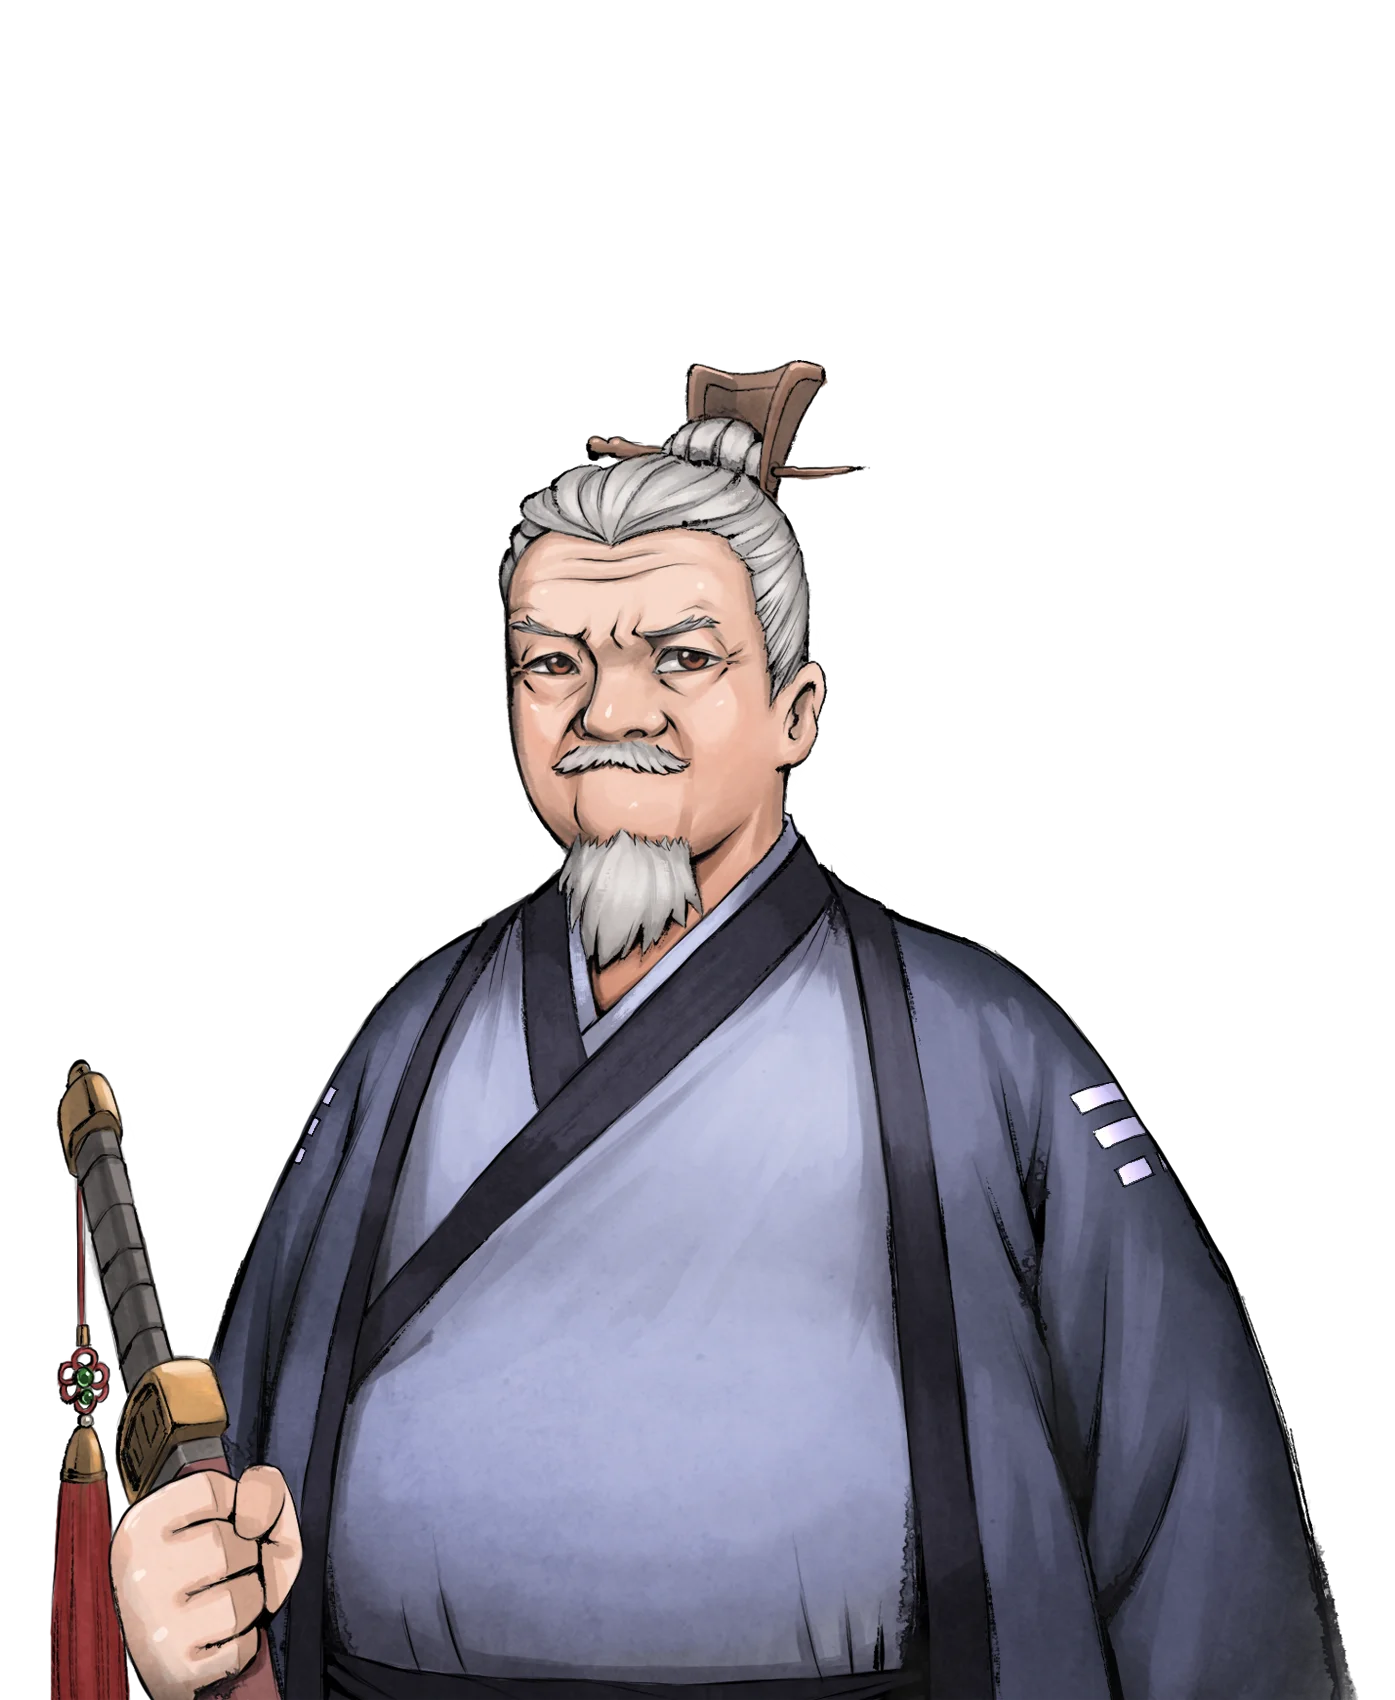
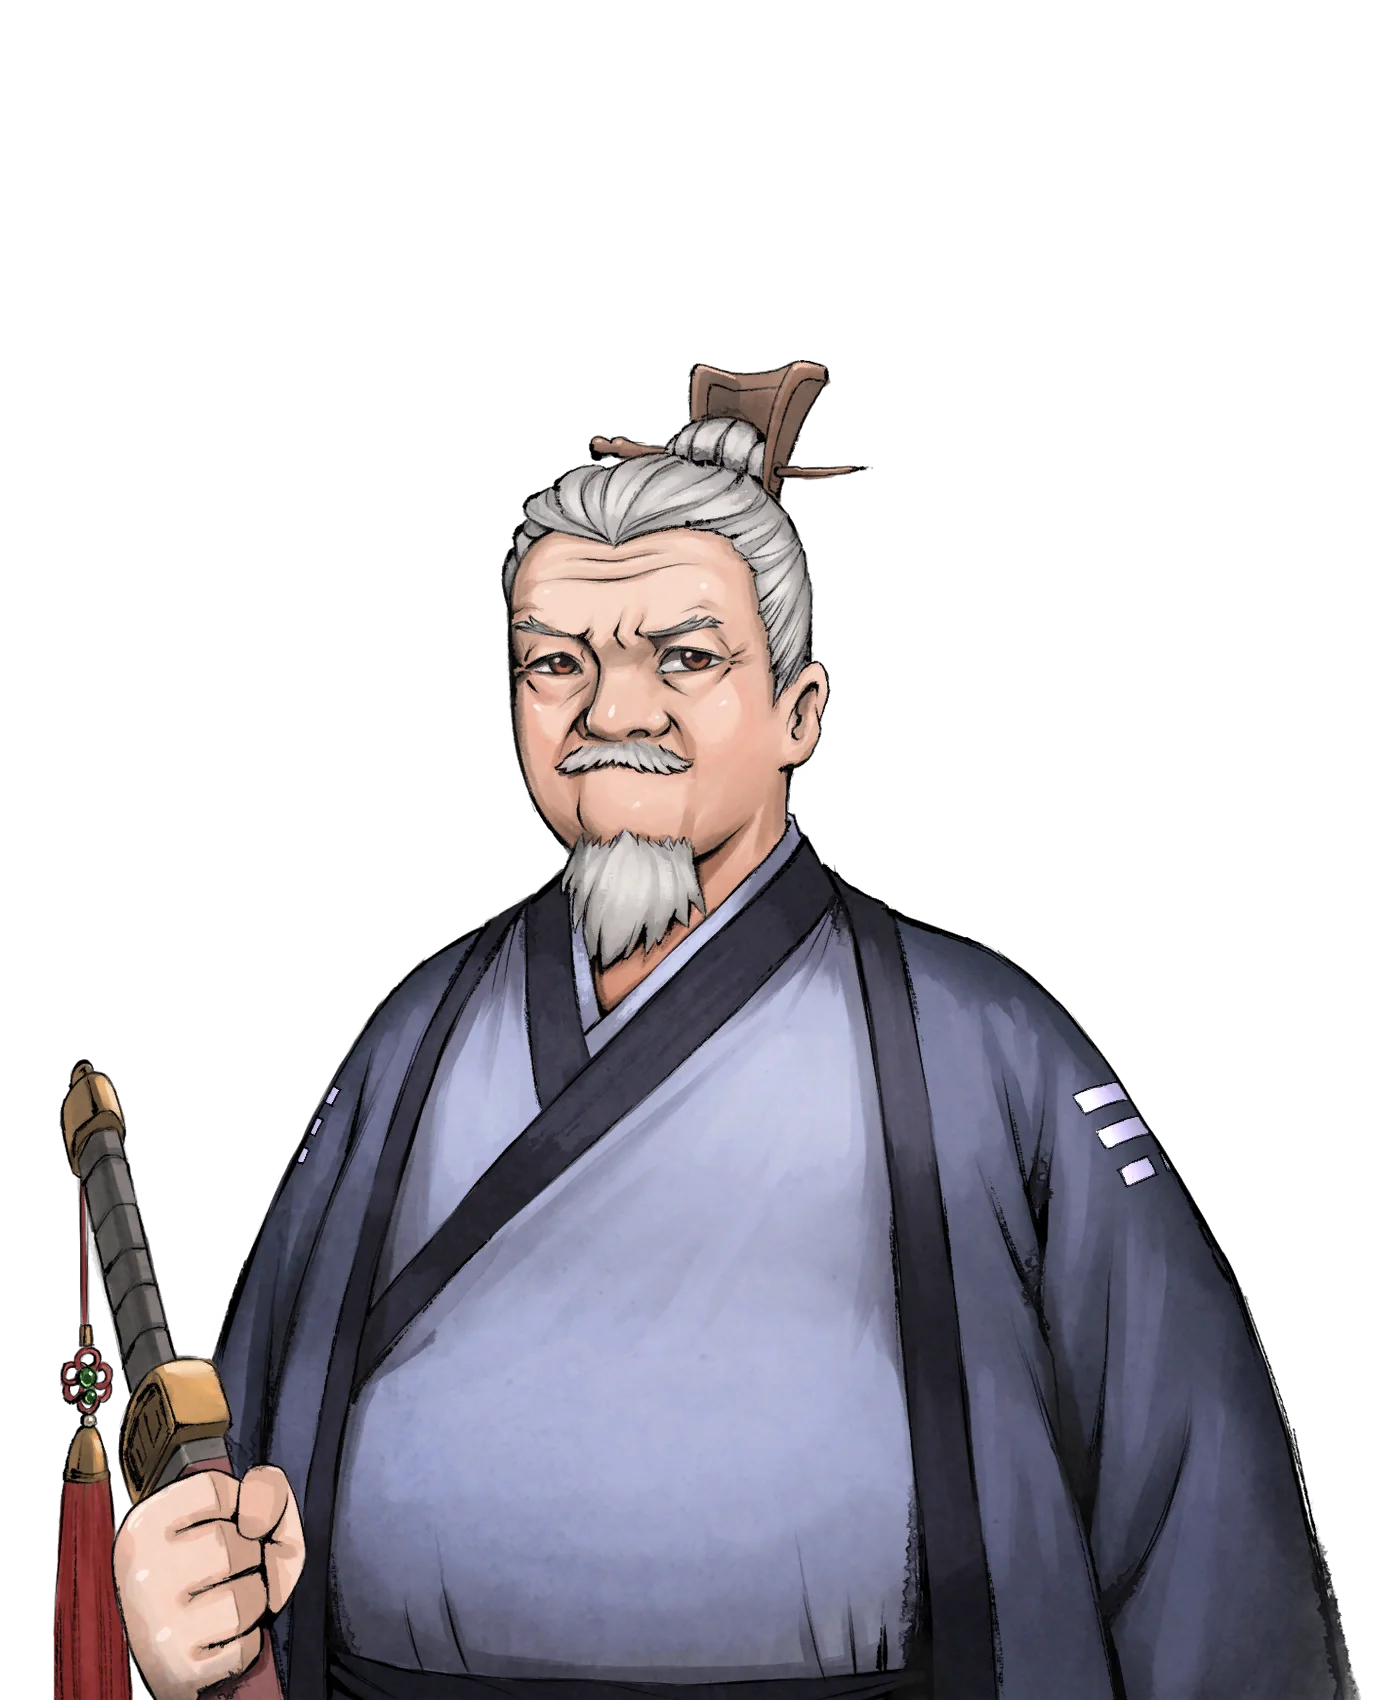
鄒博補上 5 個表情分頁，換原尺寸立繪並修正錯字

diff --git a/docs/people/characters/special201.md b/docs/people/characters/special201.md
@@ -59,6 +59,26 @@ tags:
 			</ChTr>
 		</ChTable>
 	</ChTab>
+	<ChTab title="微笑">
+		<Ch src='/images/characters/special201/laugh1.webp' position='center'/>
+		<ChName nameZh='微笑' nameEn='Smile' position='right' />
+	</ChTab>
+	<ChTab title="汗顏">
+		<Ch src='/images/characters/special201/nervous1.webp' position='center'/>
+		<ChName nameZh='汗顏' nameEn='Sweating' position='right' />
+	</ChTab>
+	<ChTab title="不悅">
+		<Ch src='/images/characters/special201/angry1.webp' position='center'/>
+		<ChName nameZh='不悅' nameEn='Displeased' position='right' />
+	</ChTab>
+	<ChTab title="生氣">
+		<Ch src='/images/characters/special201/angry2.webp' position='center'/>
+		<ChName nameZh='生氣' nameEn='Angry' position='right' />
+	</ChTab>
+	<ChTab title="重傷">
+		<Ch src='/images/characters/special201/hurt.webp' position='center'/>
+		<ChName nameZh='重傷' nameEn='Severely Injured' position='right' />
+	</ChTab>
 </ChTabs>
 <br><br>
 
@@ -89,7 +109,7 @@ tags:
 
 ## 備註
 
--   鄒博與全真七子中的太古真人[[郝大通]]為忘機道友，曾一同講經論道，由此引進全真的外丹數。青城「還虛丹」即兩人共研的心血結晶。
+-   鄒博與全真七子中的太古真人[[郝大通]]為忘機道友，曾一同講經論道，由此引進全真的外丹術。青城「還虛丹」即兩人共研的心血結晶。
 -   在前江陵圍城期間前往協助，將令牌交予師弟[[申屠龍]]，使其代掌青城。
 -   被[[葉雲裳]]稱為鄒肥伯。
 -   若[[趙活]]達到條件，會表示想收趙活為徒。答應後能成為其親傳弟子，並被起了道號「棄塵」，取忘棄紅塵之意。被拒絕也不會生氣，反倒欣慰於趙活的恆心，可惜這麼塊大好材料當年跑到唐門，給[[唐中翎|唐老哥]]撿了個大便宜。
